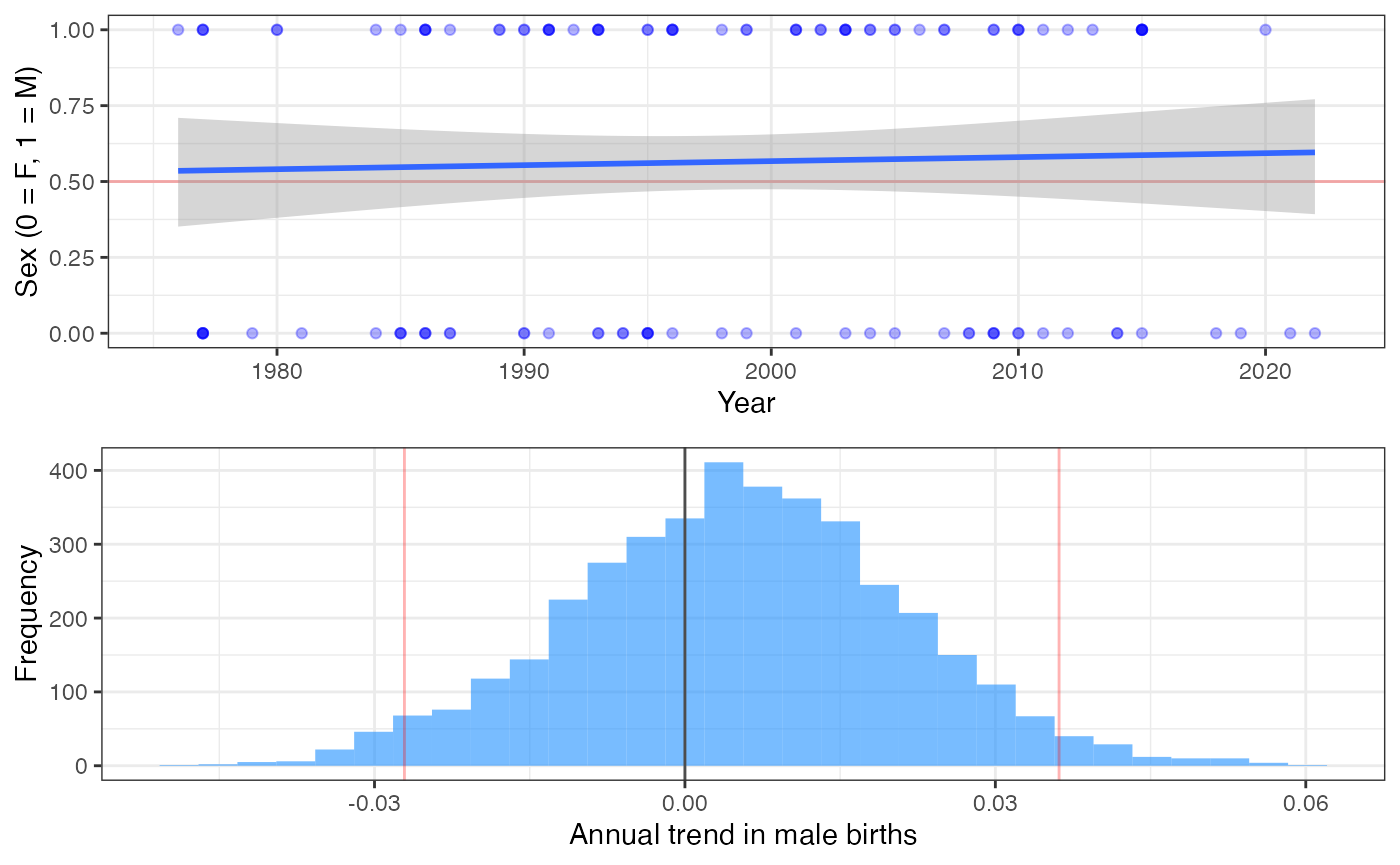
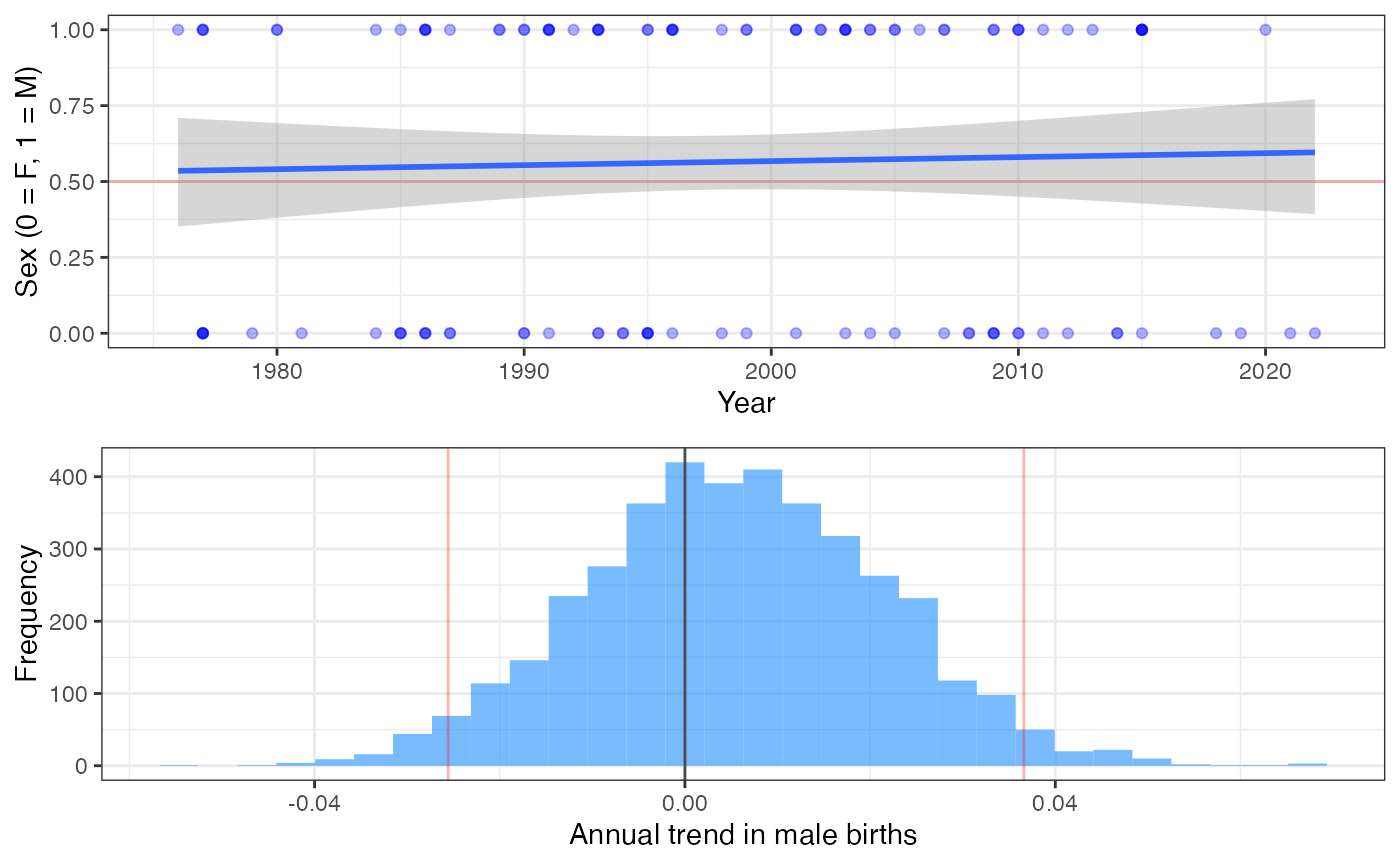
bump

diff --git a/docs/articles/a3srb.html b/docs/articles/a3srb.html
@@ -33,7 +33,7 @@
       </button>
       <span class="navbar-brand">
         <a class="navbar-link" href="../index.html">kwdemog</a>
-        <span class="version label label-default" data-toggle="tooltip" data-placement="bottom" title="">1.0.0</span>
+        <span class="version label label-default" data-toggle="tooltip" data-placement="bottom" title="">1.0.2</span>
       </span>
     </div>
 
@@ -102,7 +102,7 @@
 <h2 id="sex-ratio-at-birth">Sex ratio at birth<a class="anchor" aria-label="anchor" href="#sex-ratio-at-birth"></a>
 </h2>
 <p>During the 2011-2012 bilateral workshops (Hilborn et al. 2012; Ward et al. 2013), a comparison between NRKW and SRKW sex ratios at birth was presented, with calves being approximately 55% female in the NRKW population and 45% female in the SRKW population. This difference was assumed to be due to chance, and there was no evidence for a significant trend. As the proportion of males in the SRKW population has increased over time, it is worth re-examining the evidence supporting any trend.</p>
-<p>To evaluate support for a trend, we fit Bayesian logistic regression models (GLMs with a binomial family and logit link function), to SRKW birth data over the period 1977-present. In recent years, since 2019, there have been 1 male births and 3 female births. This analysis highlights that the probability of a positive trend is approximately 63.5% (Fig. ).</p>
+<p>To evaluate support for a trend, we fit Bayesian logistic regression models (GLMs with a binomial family and logit link function), to SRKW birth data over the period 1977-present. In recent years, since 2019, there have been 1 male births and 3 female births. This analysis highlights that the probability of a positive trend is approximately 62.9% (Fig. ).</p>
 <div class="figure">
 <img src="a3srb_files/figure-html/unnamed-chunk-2-1.png" alt="Trends in sex ratio at births for Southern Resident killer whales. Shown are all births (with GLM best fit) and the posterior distribution of the coefficient for the year term (trend). Positive values of the coefficient would support an increasing trend through time. The red line on the top panel represents the 50:50 sex ratio, and red lines on the histogram represent the 95% CIs. \label{fig:srb}" width="700"><p class="caption">
 Trends in sex ratio at births for Southern Resident killer whales. Shown are all births (with GLM best fit) and the posterior distribution of the coefficient for the year term (trend). Positive values of the coefficient would support an increasing trend through time. The red line on the top panel represents the 50:50 sex ratio, and red lines on the histogram represent the 95% CIs. 

diff --git a/docs/authors.html b/docs/authors.html
@@ -17,7 +17,7 @@
       </button>
       <span class="navbar-brand">
         <a class="navbar-link" href="index.html">kwdemog</a>
-        <span class="version label label-default" data-toggle="tooltip" data-placement="bottom" title="">1.0.0</span>
+        <span class="version label label-default" data-toggle="tooltip" data-placement="bottom" title="">1.0.2</span>
       </span>
     </div>
 
@@ -82,13 +82,13 @@
 
     <p>Ward EJ (2022).
 <em>kwdemog: Package for processing and exploring killer whale demographic data</em>.
-R package version 1.0.0. 
+R package version 1.0.2. 
 </p>
     <pre>@Manual{,
   title = {kwdemog: Package for processing and exploring killer whale demographic data},
   author = {Eric J. Ward},
   year = {2022},
-  note = {R package version 1.0.0},
+  note = {R package version 1.0.2},
 }</pre>
 
   </div>

diff --git a/docs/articles/a0vignette.html b/docs/articles/a0vignette.html
@@ -33,7 +33,7 @@
       </button>
       <span class="navbar-brand">
         <a class="navbar-link" href="../index.html">kwdemog</a>
-        <span class="version label label-default" data-toggle="tooltip" data-placement="bottom" title="">1.0.0</span>
+        <span class="version label label-default" data-toggle="tooltip" data-placement="bottom" title="">1.0.2</span>
       </span>
     </div>
 

diff --git a/docs/articles/a1currentpop.html b/docs/articles/a1currentpop.html
@@ -33,7 +33,7 @@
       </button>
       <span class="navbar-brand">
         <a class="navbar-link" href="../index.html">kwdemog</a>
-        <span class="version label label-default" data-toggle="tooltip" data-placement="bottom" title="">1.0.0</span>
+        <span class="version label label-default" data-toggle="tooltip" data-placement="bottom" title="">1.0.2</span>
       </span>
     </div>
 

diff --git a/docs/articles/a2demogrates.html b/docs/articles/a2demogrates.html
@@ -33,7 +33,7 @@
       </button>
       <span class="navbar-brand">
         <a class="navbar-link" href="../index.html">kwdemog</a>
-        <span class="version label label-default" data-toggle="tooltip" data-placement="bottom" title="">1.0.0</span>
+        <span class="version label label-default" data-toggle="tooltip" data-placement="bottom" title="">1.0.2</span>
       </span>
     </div>
 

diff --git a/docs/articles/a4reprofemales.html b/docs/articles/a4reprofemales.html
@@ -33,7 +33,7 @@
       </button>
       <span class="navbar-brand">
         <a class="navbar-link" href="../index.html">kwdemog</a>
-        <span class="version label label-default" data-toggle="tooltip" data-placement="bottom" title="">1.0.0</span>
+        <span class="version label label-default" data-toggle="tooltip" data-placement="bottom" title="">1.0.2</span>
       </span>
     </div>
 

diff --git a/docs/articles/a5densitydependence.html b/docs/articles/a5densitydependence.html
@@ -33,7 +33,7 @@
       </button>
       <span class="navbar-brand">
         <a class="navbar-link" href="../index.html">kwdemog</a>
-        <span class="version label label-default" data-toggle="tooltip" data-placement="bottom" title="">1.0.0</span>
+        <span class="version label label-default" data-toggle="tooltip" data-placement="bottom" title="">1.0.2</span>
       </span>
     </div>
 

diff --git a/docs/articles/a6projections.html b/docs/articles/a6projections.html
@@ -33,7 +33,7 @@
       </button>
       <span class="navbar-brand">
         <a class="navbar-link" href="../index.html">kwdemog</a>
-        <span class="version label label-default" data-toggle="tooltip" data-placement="bottom" title="">1.0.0</span>
+        <span class="version label label-default" data-toggle="tooltip" data-placement="bottom" title="">1.0.2</span>
       </span>
     </div>
 

diff --git a/docs/articles/index.html b/docs/articles/index.html
@@ -17,7 +17,7 @@
       </button>
       <span class="navbar-brand">
         <a class="navbar-link" href="../index.html">kwdemog</a>
-        <span class="version label label-default" data-toggle="tooltip" data-placement="bottom" title="">1.0.0</span>
+        <span class="version label label-default" data-toggle="tooltip" data-placement="bottom" title="">1.0.2</span>
       </span>
     </div>
 

diff --git a/docs/reference/ages2stages.html b/docs/reference/ages2stages.html
@@ -17,7 +17,7 @@
       </button>
       <span class="navbar-brand">
         <a class="navbar-link" href="../index.html">kwdemog</a>
-        <span class="version label label-default" data-toggle="tooltip" data-placement="bottom" title="">1.0.0</span>
+        <span class="version label label-default" data-toggle="tooltip" data-placement="bottom" title="">1.0.2</span>
       </span>
     </div>
 

diff --git a/docs/reference/expand.html b/docs/reference/expand.html
@@ -17,7 +17,7 @@
       </button>
       <span class="navbar-brand">
         <a class="navbar-link" href="../index.html">kwdemog</a>
-        <span class="version label label-default" data-toggle="tooltip" data-placement="bottom" title="">1.0.0</span>
+        <span class="version label label-default" data-toggle="tooltip" data-placement="bottom" title="">1.0.2</span>
       </span>
     </div>
 

diff --git a/docs/reference/index.html b/docs/reference/index.html
@@ -17,7 +17,7 @@
       </button>
       <span class="navbar-brand">
         <a class="navbar-link" href="../index.html">kwdemog</a>
-        <span class="version label label-default" data-toggle="tooltip" data-placement="bottom" title="">1.0.0</span>
+        <span class="version label label-default" data-toggle="tooltip" data-placement="bottom" title="">1.0.2</span>
       </span>
     </div>
 
